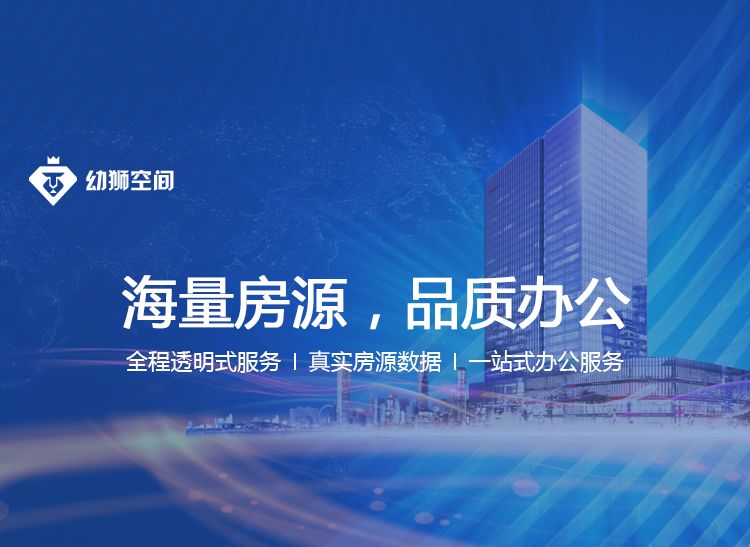
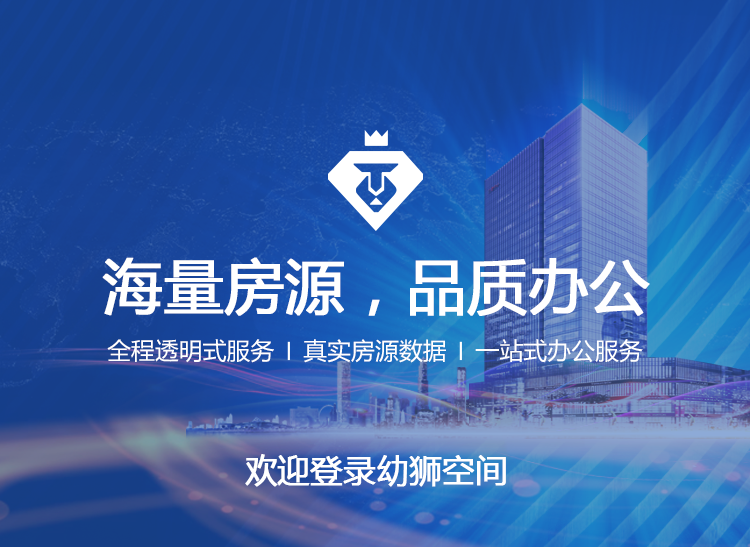
2018-03-27 16:30pm 张渊（小手冰凉）

diff --git a/css/fyxq1.css b/css/fyxq1.css
@@ -1,0 +1,52 @@
+.fytail{height: 1.72rem;padding-top: 0.853333rem;background-color: #f9f9f9;padding-left: 0px;padding-right: 0px;}
+.titlezi{font-size: 0.453333rem;color: #666666;margin-left: 3.04rem;}
+.fyxqfh{padding: 0 0 !important;color: #676767;margin-left: 0.333333rem !important;width:0.28rem;line-height:0.48rem;margin-right: 0 !important;}
+.fyzhuti{position: absolute;top: 1.706666rem;bottom:0;left:0;right:0;padding-top: 0px !important;overflow: auto;}
+.fyxqyi{}
+#slider{
+	height: 5.813333rem;
+}
+.imglunbo{color: #ffffff;font-size: 0.293333rem;text-align: right;padding-right: 0.626666rem !important;}
+.fuxqxx{border-bottom: 1px solid #dbdbdb;height: 9.906666rem;}
+.fyxqxxyiu{height: 1.666666rem;}
+.fyxqxxyiu p{border-bottom: 1px solid #e5e5e5;height: 100%;margin-left: 0.506666rem;color: #282828;line-height: 1.666666rem;font-size:0.453333rem;width: 8.92rem;}
+.fyxqxxer{height: 1.533333rem;}
+.fyxqxxer ul{border-bottom: 1px solid #e5e5e5;height: 100%;margin-left: 0.506666rem;width: 8.92rem;display: flex;align-items: center;}
+.fyxqxxer ul li{width: 33.33%;position: relative;padding-left: 0.36rem;}
+.fyxqxxer ul li:after{content: "";display: block;width: 1px;height: 0.906666rem;background-color: #e5e5e5;position: absolute;top: 50%;right: 0px;margin-top: -0.453333rem;}
+.fyxqxxer ul li:last-child:after{display: none;}
+.danjia{font-size: 0.346666rem;color: #919191;}
+.danyuan{font-size: 0.4rem;margin-top: 0.12rem;color: #f4513e;}
+.fyxqxxsan{margin-top: 0.386666rem;padding-left: 0.506666rem;}
+.zhognxiu{height: 0.373333rem;display: flex;text-align: center;align-items: center;}
+.zhognxiuyi{ display: flex;height: 100%;}
+.zhognxiuyi i{font-style: normal;border: 1px solid #daeefd;background-color: #daeefd;border-radius: 5px;line-height: 100%;height: 100%;text-align: center;font-size: 0.266666rem;color: #20a0ff;padding-left: 0.12rem;padding-right: 0.12rem;padding-top:0.04rem;}
+.kezhuce{ border: 1px solid #e8f2eb;background-color: #e8f2eb;border-radius: 5px;line-height: 100%;height: 100%;text-align: center;font-size: 0.266666rem;color: #3db894;margin-left:0.186666rem;padding-left: 0.12rem;padding-right: 0.12rem;padding-top:0.04rem;}
+.fyxqxxsan ul{margin-top: 0.4rem;}
+.stkrgw{width: 50%;}
+.fyxqxxsan ul li{display: flex;height:0.853333rem;height: auto;padding-bottom: 0.3rem;}
+.fyxqxxsan ul li p span{font-size: 0.373333rem;}
+.kognwrgwei{color: #919191;}
+.kognwrgwei i{font-style: normal;}
+.neirong{color: #282828;}
+.wuyfsdceng{height: 0.293333rem;background-color: #dfdfdf;}
+.xshogwen{height: 2.213333rem;border-top: 1px solid #dfdfdf;border-bottom: 1px solid #dfdfdf;padding-left:  0.506666rem;}
+.xshgwedi{margin-top: 0.466666rem;display: flex;}
+.xshgwedier{display: flex;width:1.893333rem;}
+.xshgwedi span,.lianxfangs span{font-size: 0.373333rem;}
+.lianxfangs{display: flex;margin-top: 0.386666rem;}
+.lainsier{color: #2b70d8;}
+.shouc{height: 1.426666rem;border-top: 1px solid #dfdfdf;display: flex;position: relative;}
+.shouc p{width: 50%;height: 100%;line-height: 100%;text-align: center;display: flex;justify-content: center;align-items: center;}
+.shoucengdianji{background-color: #302f35;}
+.xmjx{background-color: #ff8c00;}
+.xmjx a{width: 100%;height: 100%;line-height: 100%;text-align: center;display: flex;justify-content: center;align-items: center;}
+.xindebg{width: 0.493333rem;display: flex;height: 0.56rem;}
+.xindebgimg{background:url(../img/fav2.png) no-repeat;background-size: 100% 100%;}
+.choucdewezi{color:#FFFFFF;height: 0.493333rem;margin-left: 0.266666rem;font-size: 0.373333rem;display: flex;align-items: center;}
+.choucdeweziwidth{width: 1.973333rem;}
+.choucdeweziyiwidth{width: 1.2rem;}
+.shouc p{display: flex;}
+.lainxixingmql{font-size: 0.4rem;color: #FFFFFF;text-align:left;width: 100%;text-indent:0.8rem;}
+.xmjxlx{background:#fff url(../img/shoucdianhuobg.png) no-repeat center;background-size:85% 85%;width: 1.146666rem;height: 1.146666rem;-webkit-box-shadow:1px 0px 0.093333rem #333333;box-shadow:1px 0px 0.093333rem #333333;border-radius: 50%;position: absolute;top: -0.133333rem;right: 0.4rem;}
+

diff --git a/sy.html b/sy.html
@@ -13,6 +13,9 @@
 		<link rel="stylesheet" type="text/css" href="css/style.css"/>
 		<link rel="stylesheet" type="text/css" href="css/sy.css"/>
 	</head>
+	<style type="text/css">
+		.mui-input-row:nth-child(2) .mui-input-clear~.mui-icon-clear{right: 25%!important;}
+	</style>
 	<body>
 		<header class="mui-bar mui-bar-transparent bg-color-bg" style="height: 20px;">
 		    <h1 class="mui-title"></h1>
@@ -121,7 +124,6 @@
 				</p>
 				<ul class="tt_news">
 					
-					
 				</ul>
 			</div>
 			<!--Tab切换-->
@@ -149,7 +151,7 @@
 					        <input type="text" class="mui-input-clear yzwtPhone" maxlength="11"  onkeyup="this.value=this.value.replace(/\D/g,'')" onafterpaste="this.value=this.value.replace(/\D/g,'')" placeholder="请输入手机号"  >
 					    </div>
 					    <div class="mui-input-row">
-					        <input type="text" class="mui-input-clear yazmcode" placeholder="请输入验证码"  > 
+					        <input type="text" style="width: 60%;"  class="mui-input-clear yazmcode" placeholder="请输入验证码"  > 
 					    </div>
 					    <div class="btn_box">
 					    	<div class="hqyzm" onclick="huoqvyanzm()">获取验证码</div>

diff --git a/page/loupan_detail.html b/page/loupan_detail.html
@@ -6,7 +6,7 @@
 		<title></title>
 		<meta name="viewport" content="width=device-width,initial-scale=1,minimum-scale=1,maximum-scale=1,user-scalable=no" />
 		<link href="../css/mui.min.css" rel="stylesheet" />
-		<link href="../css/fyxq.css" rel="stylesheet" />
+		<link href="../css/fyxq1.css" rel="stylesheet" />
 		<script type="text/javascript" src="../js/lib/jquery-1.10.2.min.js"></script>
 		<script type="text/javascript" src="../js/lib/flexible.js"></script>
 		<script type="text/javascript" src="../js/lib/flexible_css.js"></script>

diff --git a/css/fitup_dz.css b/css/fitup_dz.css
@@ -56,7 +56,7 @@
 	color: #fefefe;
 }
 .bot_nav p:first-child{
-	background: #2b70d8;
+	background: #333333;
 }
 .bot_nav p:last-child{
 	background: #ffba26;
